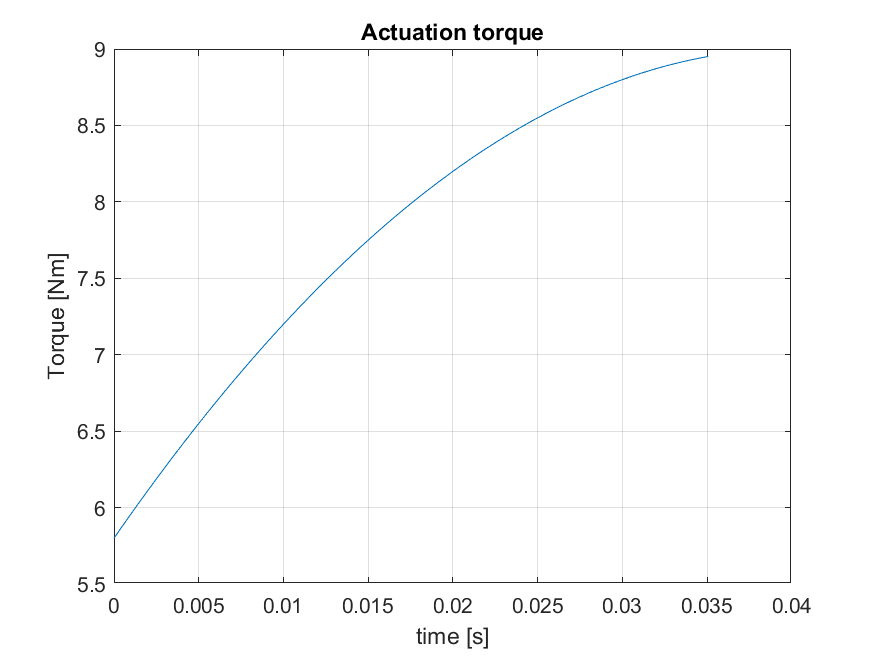
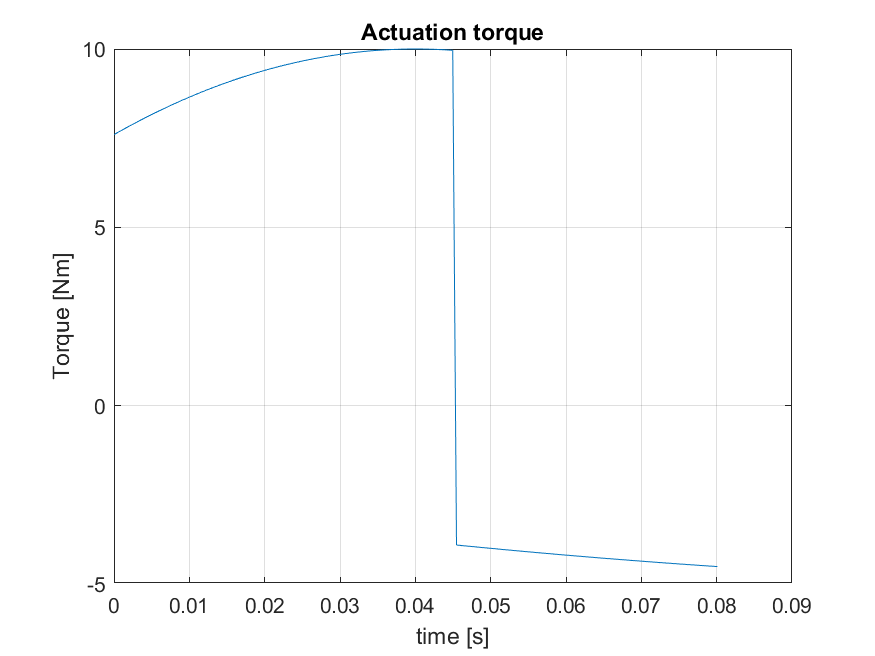
Fq_changed

diff --git a/code/sys_slip.m b/code/sys_slip.m
@@ -44,52 +44,49 @@ t18 = sin(t6);
 t21 = t6+theta2;
 t22 = t6+theta1;
 t27 = t20+theta1;
-t28 = t3.*tau.*4.5e+1;
-t29 = t6.*2.0;
-t38 = mu.*sigma.*t5.*tau.*2.7e+1;
-t39 = L.*g.*m.*t2.*1.17e+2;
-t44 = L.*g.*m.*mu.*sigma.*t4.*1.17e+2;
-t47 = m.*t5.*t7.*t11.*5.7e+1;
-t49 = m.*t5.*t7.*theta1d.*theta2d.*1.14e+2;
-t53 = m.*mu.*sigma.*t3.*t7.*theta1d.*theta2d.*5.4e+1;
-t56 = m.*mu.*sigma.*t3.*t7.*t11.*2.7e+1;
+t28 = t6.*2.0;
+t36 = L.*g.*m.*t2.*1.17e+2;
+t40 = L.*g.*m.*mu.*sigma.*t4.*1.17e+2;
+t42 = m.*t5.*t7.*t11.*5.7e+1;
+t45 = m.*t5.*t7.*theta1d.*theta2d.*1.14e+2;
+t48 = m.*mu.*sigma.*t3.*t7.*theta1d.*theta2d.*5.4e+1;
+t51 = m.*mu.*sigma.*t3.*t7.*t11.*2.7e+1;
 t23 = cos(t21);
 t24 = cos(t22);
 t25 = sin(t21);
 t26 = sin(t22);
-t30 = cos(t27);
-t31 = sin(t27);
-t32 = t13.*1.8e+1;
-t33 = -t28;
-t34 = cos(t29);
-t35 = sin(t29);
-t37 = t12.*8.1e+1;
-t40 = -t39;
-t41 = mu.*sigma.*t14.*8.1e+1;
-t48 = -t44;
-t59 = m.*t7.*t10.*t14.*8.1e+1;
-t65 = m.*mu.*sigma.*t7.*t10.*t12.*-8.1e+1;
-t36 = -t32;
-t42 = t34.*3.0;
-t43 = t24.*tau.*2.7e+1;
-t50 = L.*g.*m.*t23.*9.0;
-t51 = mu.*sigma.*t35.*3.0;
-t52 = mu.*sigma.*t26.*tau.*2.7e+1;
-t57 = L.*g.*m.*mu.*sigma.*t25.*9.0;
-t58 = m.*t7.*t26.*theta1d.*theta2d.*5.4e+1;
-t60 = m.*t7.*t11.*t26.*2.7e+1;
-t61 = m.*mu.*sigma.*t7.*t24.*theta1d.*theta2d.*5.4e+1;
-t62 = m.*mu.*sigma.*t7.*t10.*t37;
-t63 = m.*mu.*sigma.*t7.*t11.*t24.*2.7e+1;
-t45 = -t42;
-t46 = -t43;
-t54 = -t51;
-t55 = -t52;
-t64 = -t61;
-t66 = -t63;
-t67 = t36+t37+t41+t45+t54+1.36e+2;
-t68 = 1.0./t67;
-rhs = [(t19.*t68.*(t18.*tau.*4.8e+1-t31.*tau.*5.4e+1+m.*t2.*t7.*t10.*3.0e+2+m.*t7.*t10.*t17.*4.4e+1+m.*t7.*t11.*t17.*4.4e+1-m.*t7.*t10.*t23.*6.0+m.*t7.*t10.*t30.*5.4e+1+m.*t7.*t11.*t30.*5.4e+1-mu.*sigma.*t17.*tau.*4.8e+1+mu.*sigma.*t30.*tau.*5.4e+1-L.*g.*m.*t14.*8.1e+1+L.*g.*m.*t35.*3.0-L.*g.*m.*mu.*sigma.*1.36e+2+m.*t7.*t17.*theta1d.*theta2d.*8.8e+1+m.*t7.*t30.*theta1d.*theta2d.*1.08e+2+m.*mu.*sigma.*t4.*t7.*t10.*3.0e+2+m.*mu.*sigma.*t7.*t10.*t18.*4.4e+1+m.*mu.*sigma.*t7.*t11.*t18.*4.4e+1-m.*mu.*sigma.*t7.*t10.*t25.*6.0+m.*mu.*sigma.*t7.*t10.*t31.*5.4e+1+m.*mu.*sigma.*t7.*t11.*t31.*5.4e+1+L.*g.*m.*mu.*sigma.*t32-L.*g.*m.*mu.*sigma.*t34.*3.0+L.*g.*m.*mu.*sigma.*t37+m.*mu.*sigma.*t7.*t18.*theta1d.*theta2d.*8.8e+1+m.*mu.*sigma.*t7.*t31.*theta1d.*theta2d.*1.08e+2))./L;0.0;t16.*t19.*t68.*(t33+t38+t40+t46+t47+t48+t49+t50+t53+t55+t56+t57+t58+t59+t60+t64+t65+t66+m.*t5.*t7.*t10.*5.7e+1+m.*t7.*t10.*t15.*1.8e+1+m.*t7.*t10.*t26.*2.7e+1+m.*mu.*sigma.*t7.*t10.*8.1e+1+m.*mu.*sigma.*t3.*t7.*t10.*2.7e+1-m.*mu.*sigma.*t7.*t10.*t24.*2.7e+1);-t16.*t19.*t68.*(t33+t38+t40+t46+t47+t48+t49+t50+t53+t55+t56+t57+t58+t59+t60+t64+t65+t66-tau.*1.23e+2-t12.*tau.*8.1e+1+m.*t5.*t7.*t10.*1.5e+2+m.*t7.*t10.*t15.*3.6e+1+m.*t7.*t11.*t15.*1.8e+1+m.*t7.*t10.*t26.*3.6e+1+m.*t7.*t10.*t35.*3.0+m.*t7.*t11.*t35.*3.0-mu.*sigma.*t14.*tau.*8.1e+1+L.*g.*m.*t17.*1.5e+1-L.*g.*m.*t30.*2.7e+1+m.*mu.*sigma.*t7.*t10.*8.4e+1+m.*mu.*sigma.*t7.*t11.*3.0+m.*t7.*t15.*theta1d.*theta2d.*3.6e+1+m.*t7.*t35.*theta1d.*theta2d.*6.0+m.*mu.*sigma.*t3.*t7.*t10.*3.6e+1-m.*mu.*sigma.*t7.*t10.*t24.*3.6e+1-m.*mu.*sigma.*t7.*t10.*t34.*3.0-m.*mu.*sigma.*t7.*t11.*t34.*3.0+m.*mu.*sigma.*t7.*theta1d.*theta2d.*6.0+L.*g.*m.*mu.*sigma.*t18.*1.5e+1-L.*g.*m.*mu.*sigma.*t31.*2.7e+1-m.*mu.*sigma.*t7.*t34.*theta1d.*theta2d.*6.0)];
+t29 = cos(t27);
+t30 = sin(t27);
+t31 = t13.*1.8e+1;
+t32 = cos(t28);
+t33 = sin(t28);
+t35 = t12.*8.1e+1;
+t37 = -t36;
+t38 = mu.*sigma.*t14.*8.1e+1;
+t44 = -t40;
+t56 = m.*t7.*t10.*t14.*8.1e+1;
+t62 = m.*mu.*sigma.*t7.*t10.*t12.*-8.1e+1;
+t34 = -t31;
+t39 = t32.*3.0;
+t43 = t32.*tau.*9.0;
+t46 = L.*g.*m.*t23.*9.0;
+t47 = mu.*sigma.*t33.*3.0;
+t52 = mu.*sigma.*t33.*tau.*9.0;
+t53 = L.*g.*m.*mu.*sigma.*t25.*9.0;
+t55 = m.*t7.*t26.*theta1d.*theta2d.*5.4e+1;
+t57 = m.*t7.*t11.*t26.*2.7e+1;
+t58 = m.*mu.*sigma.*t7.*t24.*theta1d.*theta2d.*5.4e+1;
+t59 = m.*mu.*sigma.*t7.*t10.*t35;
+t60 = m.*mu.*sigma.*t7.*t11.*t24.*2.7e+1;
+t41 = -t39;
+t49 = -t43;
+t50 = -t47;
+t54 = -t52;
+t61 = -t58;
+t63 = -t60;
+t64 = t34+t35+t38+t41+t50+1.36e+2;
+t65 = 1.0./t64;
+rhs = [(t19.*t65.*(t4.*tau.*-7.2e+1+t18.*tau.*4.8e+1+t25.*tau.*1.8e+1-t30.*tau.*5.4e+1+m.*t2.*t7.*t10.*3.0e+2+m.*t7.*t10.*t17.*4.4e+1+m.*t7.*t11.*t17.*4.4e+1-m.*t7.*t10.*t23.*6.0+m.*t7.*t10.*t29.*5.4e+1+m.*t7.*t11.*t29.*5.4e+1+mu.*sigma.*t2.*tau.*7.2e+1-mu.*sigma.*t17.*tau.*4.8e+1-mu.*sigma.*t23.*tau.*1.8e+1+mu.*sigma.*t29.*tau.*5.4e+1-L.*g.*m.*t14.*8.1e+1+L.*g.*m.*t33.*3.0-L.*g.*m.*mu.*sigma.*1.36e+2+m.*t7.*t17.*theta1d.*theta2d.*8.8e+1+m.*t7.*t29.*theta1d.*theta2d.*1.08e+2+m.*mu.*sigma.*t4.*t7.*t10.*3.0e+2+m.*mu.*sigma.*t7.*t10.*t18.*4.4e+1+m.*mu.*sigma.*t7.*t11.*t18.*4.4e+1-m.*mu.*sigma.*t7.*t10.*t25.*6.0+m.*mu.*sigma.*t7.*t10.*t30.*5.4e+1+m.*mu.*sigma.*t7.*t11.*t30.*5.4e+1+L.*g.*m.*mu.*sigma.*t31-L.*g.*m.*mu.*sigma.*t32.*3.0+L.*g.*m.*mu.*sigma.*t35+m.*mu.*sigma.*t7.*t18.*theta1d.*theta2d.*8.8e+1+m.*mu.*sigma.*t7.*t30.*theta1d.*theta2d.*1.08e+2))./L;0.0;t16.*t19.*t65.*(t37+t42+t44+t45+t46+t48+t49+t51+t53+t54+t55+t56+t57+t61+t62+t63-tau.*5.1e+1-t3.*tau.*4.5e+1-t24.*tau.*2.7e+1+m.*t5.*t7.*t10.*5.7e+1+m.*t7.*t10.*t15.*1.8e+1+m.*t7.*t10.*t26.*2.7e+1+mu.*sigma.*t5.*tau.*2.7e+1-mu.*sigma.*t26.*tau.*2.7e+1+m.*mu.*sigma.*t7.*t10.*8.1e+1+m.*mu.*sigma.*t3.*t7.*t10.*2.7e+1-m.*mu.*sigma.*t7.*t10.*t24.*2.7e+1);-t16.*t19.*t65.*(t37+t42+t44+t45+t46+t48+t49+t51+t53+t54+t55+t56+t57+t61+t62+t63-tau.*1.74e+2-t3.*tau.*9.0e+1-t12.*tau.*8.1e+1-t24.*tau.*5.4e+1+m.*t5.*t7.*t10.*1.5e+2+m.*t7.*t10.*t15.*3.6e+1+m.*t7.*t11.*t15.*1.8e+1+m.*t7.*t10.*t26.*3.6e+1+m.*t7.*t10.*t33.*3.0+m.*t7.*t11.*t33.*3.0-mu.*sigma.*t14.*tau.*8.1e+1-mu.*sigma.*t26.*tau.*5.4e+1+L.*g.*m.*t17.*1.5e+1-L.*g.*m.*t29.*2.7e+1+m.*mu.*sigma.*t7.*t10.*8.4e+1+m.*mu.*sigma.*t7.*t11.*3.0+m.*t7.*t15.*theta1d.*theta2d.*3.6e+1+m.*t7.*t33.*theta1d.*theta2d.*6.0+m.*mu.*sigma.*t3.*t7.*t10.*3.6e+1-m.*mu.*sigma.*t7.*t10.*t24.*3.6e+1-m.*mu.*sigma.*t7.*t10.*t32.*3.0-m.*mu.*sigma.*t7.*t11.*t32.*3.0+m.*mu.*sigma.*t7.*theta1d.*theta2d.*6.0+L.*g.*m.*mu.*sigma.*t18.*1.5e+1-L.*g.*m.*mu.*sigma.*t30.*2.7e+1-m.*mu.*sigma.*t7.*t32.*theta1d.*theta2d.*6.0)];
 
 dXdt(5:8) = rhs;
 end

diff --git a/code/lam_calc.m b/code/lam_calc.m
@@ -1,4 +1,4 @@
-function [lam_n,lam_t,lam_n_slip] = lam_calc(X,tau)
+function [lambdan,lambdat,lambda_n_slip] = lam_calc(X,tau)
 
 global sigma m g L mu
 m=0.3;g=9.8;L=0.15;mu=0.3;
@@ -20,9 +20,10 @@ t7 = theta2d.^2;
 t10 = -theta2;
 t8 = cos(t5);
 t9 = sin(t2);
-t11 = t10+theta1;
-t12 = sin(t11);
-lam_n = (tau.*cos(t2).*-2.4e+1+tau.*cos(t11).*2.7e+1-L.*g.*m.*6.8e+1+m.*t3.*t6.*t9.*2.2e+1+m.*t3.*t7.*t9.*2.2e+1+m.*t3.*t6.*t12.*2.7e+1+m.*t3.*t7.*t12.*2.7e+1+L.*g.*m.*cos(t4).*(8.1e+1./2.0)-m.*t3.*t6.*sin(t2+theta2).*3.0+m.*t3.*t6.*sin(theta1).*1.5e+2-L.*g.*m.*cos(t2.*2.0).*(3.0./2.0)+L.*g.*m.*t8.*9.0+m.*t3.*t9.*theta1d.*theta2d.*4.4e+1+m.*t3.*t12.*theta1d.*theta2d.*5.4e+1)./(L.*(t8.*1.8e+1-6.7e+1));
+t11 = t2+theta2;
+t12 = t10+theta1;
+t13 = sin(t12);
+lambdan = (tau.*cos(t2).*-2.4e+1-tau.*cos(t11).*9.0+tau.*cos(t12).*2.7e+1+tau.*cos(theta1).*3.6e+1-L.*g.*m.*6.8e+1+m.*t3.*t6.*t9.*2.2e+1+m.*t3.*t7.*t9.*2.2e+1+m.*t3.*t6.*t13.*2.7e+1+m.*t3.*t7.*t13.*2.7e+1+L.*g.*m.*cos(t4).*(8.1e+1./2.0)-m.*t3.*t6.*sin(t11).*3.0+m.*t3.*t6.*sin(theta1).*1.5e+2-L.*g.*m.*cos(t2.*2.0).*(3.0./2.0)+L.*g.*m.*t8.*9.0+m.*t3.*t9.*theta1d.*theta2d.*4.4e+1+m.*t3.*t13.*theta1d.*theta2d.*5.4e+1)./(L.*(t8.*1.8e+1-6.7e+1));
 
 t2 = theta1+theta2;
 t3 = L.^2;
@@ -32,9 +33,10 @@ t6 = theta1d.^2;
 t7 = theta2d.^2;
 t9 = -theta2;
 t8 = cos(t2);
-t10 = t9+theta1;
-t11 = cos(t10);
-lam_t = (tau.*sin(t2).*4.8e+1-tau.*sin(t10).*5.4e+1+m.*t3.*t6.*t8.*4.4e+1+m.*t3.*t7.*t8.*4.4e+1+m.*t3.*t6.*t11.*5.4e+1+m.*t3.*t7.*t11.*5.4e+1-m.*t3.*t6.*cos(t2+theta2).*6.0-L.*g.*m.*sin(t4).*8.1e+1+m.*t3.*t6.*cos(theta1).*3.0e+2+L.*g.*m.*sin(t2.*2.0).*3.0+m.*t3.*t8.*theta1d.*theta2d.*8.8e+1+m.*t3.*t11.*theta1d.*theta2d.*1.08e+2)./(L.*(cos(t5).*1.8e+1-6.7e+1).*2.0);
+t10 = t2+theta2;
+t11 = t9+theta1;
+t12 = cos(t11);
+lambdat = (tau.*sin(t2).*2.4e+1+tau.*sin(t10).*9.0-tau.*sin(t11).*2.7e+1-tau.*sin(theta1).*3.6e+1+m.*t3.*t6.*t8.*2.2e+1+m.*t3.*t7.*t8.*2.2e+1+m.*t3.*t6.*t12.*2.7e+1+m.*t3.*t7.*t12.*2.7e+1-L.*g.*m.*sin(t4).*(8.1e+1./2.0)-m.*t3.*t6.*cos(t10).*3.0+m.*t3.*t6.*cos(theta1).*1.5e+2+L.*g.*m.*sin(t2.*2.0).*(3.0./2.0)+m.*t3.*t8.*theta1d.*theta2d.*4.4e+1+m.*t3.*t12.*theta1d.*theta2d.*5.4e+1)./(L.*(cos(t5).*1.8e+1-6.7e+1));
 
 t2 = theta1+theta2;
 t3 = L.^2;
@@ -45,8 +47,9 @@ t7 = theta2d.^2;
 t10 = -theta2;
 t8 = cos(t5);
 t9 = sin(t2);
-t11 = t10+theta1;
-t12 = t2.*2.0;
-t13 = sin(t11);
-lam_n_slip = (tau.*cos(t2).*-1.5e+1+tau.*cos(t11).*2.7e+1-L.*g.*m.*8.9e+1+m.*t3.*t6.*t9.*1.3e+1+m.*t3.*t7.*t9.*1.3e+1+m.*t3.*t6.*t13.*2.7e+1+m.*t3.*t7.*t13.*2.7e+1-m.*t3.*t6.*sin(t2+theta2).*3.0+m.*t3.*t6.*sin(theta1).*1.23e+2+L.*g.*m.*t8.*9.0+m.*t3.*t9.*theta1d.*theta2d.*2.6e+1+m.*t3.*t13.*theta1d.*theta2d.*5.4e+1)./(L.*(t8.*1.8e+1-cos(t4).*8.1e+1+cos(t12).*3.0-mu.*sigma.*sin(t4).*8.1e+1+mu.*sigma.*sin(t12).*3.0-1.36e+2));
+t11 = t2+theta2;
+t12 = t10+theta1;
+t13 = t2.*2.0;
+t14 = sin(t12);
+lambda_n_slip = (tau.*cos(t2).*-1.5e+1-tau.*cos(t11).*9.0+tau.*cos(t12).*2.7e+1+tau.*cos(theta1).*1.17e+2-L.*g.*m.*8.9e+1+m.*t3.*t6.*t9.*1.3e+1+m.*t3.*t7.*t9.*1.3e+1+m.*t3.*t6.*t14.*2.7e+1+m.*t3.*t7.*t14.*2.7e+1-m.*t3.*t6.*sin(t11).*3.0+m.*t3.*t6.*sin(theta1).*1.23e+2+L.*g.*m.*t8.*9.0+m.*t3.*t9.*theta1d.*theta2d.*2.6e+1+m.*t3.*t14.*theta1d.*theta2d.*5.4e+1)./(L.*(t8.*1.8e+1-cos(t4).*8.1e+1+cos(t13).*3.0-mu.*sigma.*sin(t4).*8.1e+1+mu.*sigma.*sin(t13).*3.0-1.36e+2));
 end

diff --git a/code/animation.m b/code/animation.m
@@ -9,8 +9,8 @@ L=0.15;
 mu = 0.3;
 
 % initial condition
-phi = deg2rad(55); % angle between link1 and line PR
-inclined_theta = deg2rad(55);% angle between line PR and x axis
+phi = deg2rad(45); % angle between link1 and line PR
+inclined_theta = deg2rad(45);% angle between line PR and x axis
 
 % initialization
 t_0 = 0;
@@ -46,36 +46,36 @@ while true
         [t_stick,X_stick,te_stick,Xe_stick,ie_stick] = ode45(@(t,X) sys_stick(t,X),tspan,X0,op_stick);
         t_tot = [t_tot;t_stick(2:end)];
         X_tot = [X_tot;X_stick(2:end,:)];
-        t_event_change = [t_event_change te_stick];
+        t_event_change = [t_event_change te_stick(end)];
         event_order = [event_order;'Sticked before flying'];
-        if ie_stick == 3
+        if ie_stick(end) == 3
             error("point R touched the ground while sticking before flying\n Run animation_regarless_of_error.m to see the animation")
         end
-        if ie_stick == 4
+        if ie_stick(end) == 4
             error("point Q touched the ground while sticking before flying\n Run animation_regarless_of_error.m to see the animation")
         end
     end
     
     % Event slip before flying
-    if  ie_stick == 1 || ie_stick == 2
+    if  ie_stick(end) == 1 || ie_stick(end) == 2
         disp("slipping: "+num2str(t_tot(end)))
         tspan = t_tot(end):dt:t_f;
         X0 = X_tot(end,:);
-        op_slip = odeset('RelTol',1e-9,'AbsTol',1e-9,'Events',@events_slip);
+        op_slip = odeset('RelTol',1e-6,'AbsTol',1e-6,'Events',@events_slip);
         [t_slip,X_slip,te_slip,Xe_slip,ie_slip] = ode45(@(t,X) sys_slip(t,X),tspan,X0,op_slip);
-        t_event_change = [t_event_change te_slip];
+        t_event_change = [t_event_change te_slip(end)];
         event_order = [event_order;'Slipped before flying'];
         t_tot = [t_tot;t_slip(2:end)];
-        if ie_slip == 3
+        if ie_slip(end) == 3
             error("point R touched the ground while slipping before flying\n Run animation_regarless_of_error.m to see the animation")
         end
-        if ie_slip == 4
+        if ie_slip(end) == 4
             error("point Q touched the ground while slipping before flying\n Run animation_regarless_of_error.m to see the animation")
         end
     end
    
     % Event fly
-    if ie_slip == 1 || ie_stick == 5
+    if ie_slip(end) == 1 || ie_stick(end) == 5
         disp("flying:   "+num2str(t_tot(end)))
         tspan = t_tot(end):dt:t_f;
         X0 = X_tot(end,:);
@@ -92,7 +92,7 @@ while true
             error("point Q landed on the ground first\n Run animation_regarless_of_error.m to see the animation")
         end
         if ie_fly(end) == 4
-            error("line PR breached the angle constraint at time: "+ num2str(te_fly))
+            error("line PR breached the angle constraint at time: "+ num2str(te_fly(end)))
         end
         break
     end

diff --git a/code/sys_fly.m b/code/sys_fly.m
@@ -22,28 +22,32 @@ dXdt(4) = X(8);
 tau=tau_calc(t);
 
 %    The rest of the function was generated by the Symbolic Math Toolbox version 8.6.
-t2 = cos(theta2);
-t3 = sin(theta2);
-t4 = theta1+theta2;
-t5 = L.^2;
-t6 = theta2.*2.0;
-t7 = theta1d.^2;
-t8 = theta2d.^2;
-t10 = 1.0./L;
-t14 = 1.0./m;
-t15 = -theta2;
-t9 = cos(t6);
-t11 = 1.0./t5;
-t12 = cos(t4);
-t13 = sin(t4);
-t16 = t4+theta2;
-t17 = t15+theta1;
-t18 = cos(t17);
-t19 = sin(t17);
-t20 = t9.*9.0;
-t21 = t20-8.9e+1;
-t22 = 1.0./t21;
-rhs = [-t10.*t14.*t22.*(t13.*tau.*1.5e+1-t19.*tau.*2.7e+1+m.*t5.*t7.*t12.*1.3e+1+m.*t5.*t8.*t12.*1.3e+1+m.*t5.*t7.*t18.*2.7e+1+m.*t5.*t8.*t18.*2.7e+1-m.*t5.*t7.*cos(t16).*3.0+m.*t5.*t7.*cos(theta1).*1.23e+2+m.*t5.*t12.*theta1d.*theta2d.*2.6e+1+m.*t5.*t18.*theta1d.*theta2d.*5.4e+1);-t10.*t14.*t22.*(t12.*tau.*-1.5e+1+t18.*tau.*2.7e+1-L.*g.*m.*8.9e+1+m.*t5.*t7.*t13.*1.3e+1+m.*t5.*t8.*t13.*1.3e+1+m.*t5.*t7.*t19.*2.7e+1+m.*t5.*t8.*t19.*2.7e+1-m.*t5.*t7.*sin(t16).*3.0+m.*t5.*t7.*sin(theta1).*1.23e+2+L.*g.*m.*t20+m.*t5.*t13.*theta1d.*theta2d.*2.6e+1+m.*t5.*t19.*theta1d.*theta2d.*5.4e+1);(t11.*t14.*(t2.*tau.*-6.0+m.*t3.*t5.*t7.*7.0+m.*t3.*t5.*t8.*7.0+m.*t2.*t3.*t5.*t7.*3.0+m.*t3.*t5.*theta1d.*theta2d.*1.4e+1).*-3.0)./(t2.^2.*9.0-4.9e+1);(t11.*t14.*(tau.*-2.0+m.*t3.*t5.*t7.*2.0+m.*t3.*t5.*t8+m.*t3.*t5.*theta1d.*theta2d.*2.0).*3.0)./(t2.*3.0-7.0)];
+t2 = cos(theta1);
+t3 = cos(theta2);
+t4 = sin(theta1);
+t5 = sin(theta2);
+t6 = theta1+theta2;
+t7 = L.^2;
+t8 = theta2.*2.0;
+t9 = theta1d.^2;
+t10 = theta2d.^2;
+t12 = 1.0./L;
+t16 = 1.0./m;
+t17 = -theta2;
+t11 = cos(t8);
+t13 = 1.0./t7;
+t14 = cos(t6);
+t15 = sin(t6);
+t18 = t6+theta2;
+t21 = t17+theta1;
+t19 = cos(t18);
+t20 = sin(t18);
+t22 = cos(t21);
+t23 = sin(t21);
+t24 = t11.*9.0;
+t25 = t24-8.9e+1;
+t26 = 1.0./t25;
+rhs = [-t12.*t16.*t26.*(t4.*tau.*-1.17e+2+t15.*tau.*1.5e+1+t20.*tau.*9.0-t23.*tau.*2.7e+1+m.*t2.*t7.*t9.*1.23e+2+m.*t7.*t9.*t14.*1.3e+1+m.*t7.*t10.*t14.*1.3e+1-m.*t7.*t9.*t19.*3.0+m.*t7.*t9.*t22.*2.7e+1+m.*t7.*t10.*t22.*2.7e+1+m.*t7.*t14.*theta1d.*theta2d.*2.6e+1+m.*t7.*t22.*theta1d.*theta2d.*5.4e+1);-t12.*t16.*t26.*(t2.*tau.*1.17e+2-t14.*tau.*1.5e+1-t19.*tau.*9.0+t22.*tau.*2.7e+1-L.*g.*m.*8.9e+1+m.*t4.*t7.*t9.*1.23e+2+m.*t7.*t9.*t15.*1.3e+1+m.*t7.*t10.*t15.*1.3e+1-m.*t7.*t9.*t20.*3.0+m.*t7.*t9.*t23.*2.7e+1+m.*t7.*t10.*t23.*2.7e+1+L.*g.*m.*t24+m.*t7.*t15.*theta1d.*theta2d.*2.6e+1+m.*t7.*t23.*theta1d.*theta2d.*5.4e+1);(t13.*t16.*(tau.*-1.4e+1-t3.*tau.*6.0+m.*t5.*t7.*t9.*7.0+m.*t5.*t7.*t10.*7.0+m.*t3.*t5.*t7.*t9.*3.0+m.*t5.*t7.*theta1d.*theta2d.*1.4e+1).*-3.0)./(t3.^2.*9.0-4.9e+1);(t13.*t16.*(tau.*-4.0+m.*t5.*t7.*t9.*2.0+m.*t5.*t7.*t10+m.*t5.*t7.*theta1d.*theta2d.*2.0).*3.0)./(t3.*3.0-7.0)];
 
 dXdt(5:8) = rhs;
 end

diff --git a/code/sys_stick.m b/code/sys_stick.m
@@ -34,11 +34,16 @@ t9 = cos(t6);
 t10 = sin(t6);
 t11 = 1.0./t5;
 t13 = t6+theta1;
+t16 = L.*g.*m.*t2.*2.4e+1;
+t18 = m.*t4.*t5.*theta1d.*theta2d.*4.0e+1;
+t20 = m.*t4.*t5.*t8.*2.0e+1;
 t14 = cos(t13);
 t15 = t9.*1.8e+1;
-t16 = t15-6.7e+1;
-t17 = 1.0./t16;
-rhs = [0.0;0.0;t11.*t12.*t17.*(t3.*tau.*-1.2e+1+m.*t4.*t5.*t7.*2.0e+1+m.*t4.*t5.*t8.*2.0e+1+m.*t5.*t7.*t10.*1.2e+1-L.*g.*m.*t2.*2.4e+1+L.*g.*m.*t14.*6.0+m.*t4.*t5.*theta1d.*theta2d.*4.0e+1).*(-3.0./2.0);t11.*t12.*t17.*(tau.*-5.1e+1-t3.*tau.*1.8e+1+m.*t4.*t5.*t7.*1.32e+2+m.*t4.*t5.*t8.*3.0e+1+m.*t5.*t7.*t10.*3.6e+1+m.*t5.*t8.*t10.*1.8e+1+L.*g.*m.*cos(theta1+theta2).*2.4e+1-L.*g.*m.*cos(theta1-theta2).*2.7e+1-L.*g.*m.*t2.*3.6e+1+L.*g.*m.*t14.*9.0+m.*t4.*t5.*theta1d.*theta2d.*6.0e+1+m.*t5.*t10.*theta1d.*theta2d.*3.6e+1)];
+t17 = -t16;
+t19 = L.*g.*m.*t14.*6.0;
+t21 = t15-6.7e+1;
+t22 = 1.0./t21;
+rhs = [0.0;0.0;t11.*t12.*t22.*(t17+t18+t19+t20-tau.*1.0e+1-t3.*tau.*1.2e+1+m.*t4.*t5.*t7.*2.0e+1+m.*t5.*t7.*t10.*1.2e+1).*(-3.0./2.0);t11.*t12.*t22.*(t17+t18+t19+t20-tau.*4.4e+1-t3.*tau.*2.4e+1+m.*t4.*t5.*t7.*8.8e+1+m.*t5.*t7.*t10.*2.4e+1+m.*t5.*t8.*t10.*1.2e+1+L.*g.*m.*cos(theta1+theta2).*1.6e+1-L.*g.*m.*cos(theta1-theta2).*1.8e+1+m.*t5.*t10.*theta1d.*theta2d.*2.4e+1).*(3.0./2.0)];
 
 dXdt(5:8) = rhs;     
 end

diff --git a/code/tau_calc.m b/code/tau_calc.m
@@ -2,14 +2,14 @@ function tau = tau_calc(t)
 
 global time0 time1 time2 time3
 time0 = 0;
-time1 = 0.05;
-time2 = 0.10;
+time1 = 0.045;
+time2 = 0.15;
 time3 = 0.30;
 
 global f1 f2 f3 f4
-f1 = @(t) 9 -2000*(t-0.04)^2;
-f2 = @(t) -5*20*t; 
-f3 = @(t) -0.5;  
+f1 = @(t) 10 -1500*(t-0.04)^2;
+f2 = @(t) -5* exp(t); 
+f3 = @(t) 5;  
 f4 = @(t) 1; 
 
 if time0 <= t && t<time1

diff --git a/code/events_slip.m b/code/events_slip.m
@@ -27,7 +27,7 @@ r_R = r_Q + [2*L*cos(theta1+theta2);2*L*sin(theta1+theta2)];
 
 value = [lam_n_slip,vt,r_R(2),r_Q(2)];
 isterminal = ones(1,length(value));
-direction = [-1,0,-1,-1];
+direction = [-1,1,-1,-1];
 if sigma == 1
     direction(2) = -1;
 end

diff --git a/code/draft.m b/code/draft.m
@@ -20,7 +20,7 @@ V = 2*m*g*rCG(2);
 V = simplify(V);
 
 syms tau
-Fq = [0;0;tau;tau];
+Fq = [0;0;0;tau];
 
 q=[x;y;theta1;theta2];
 qd=[xd;yd;theta1d;theta2d];
